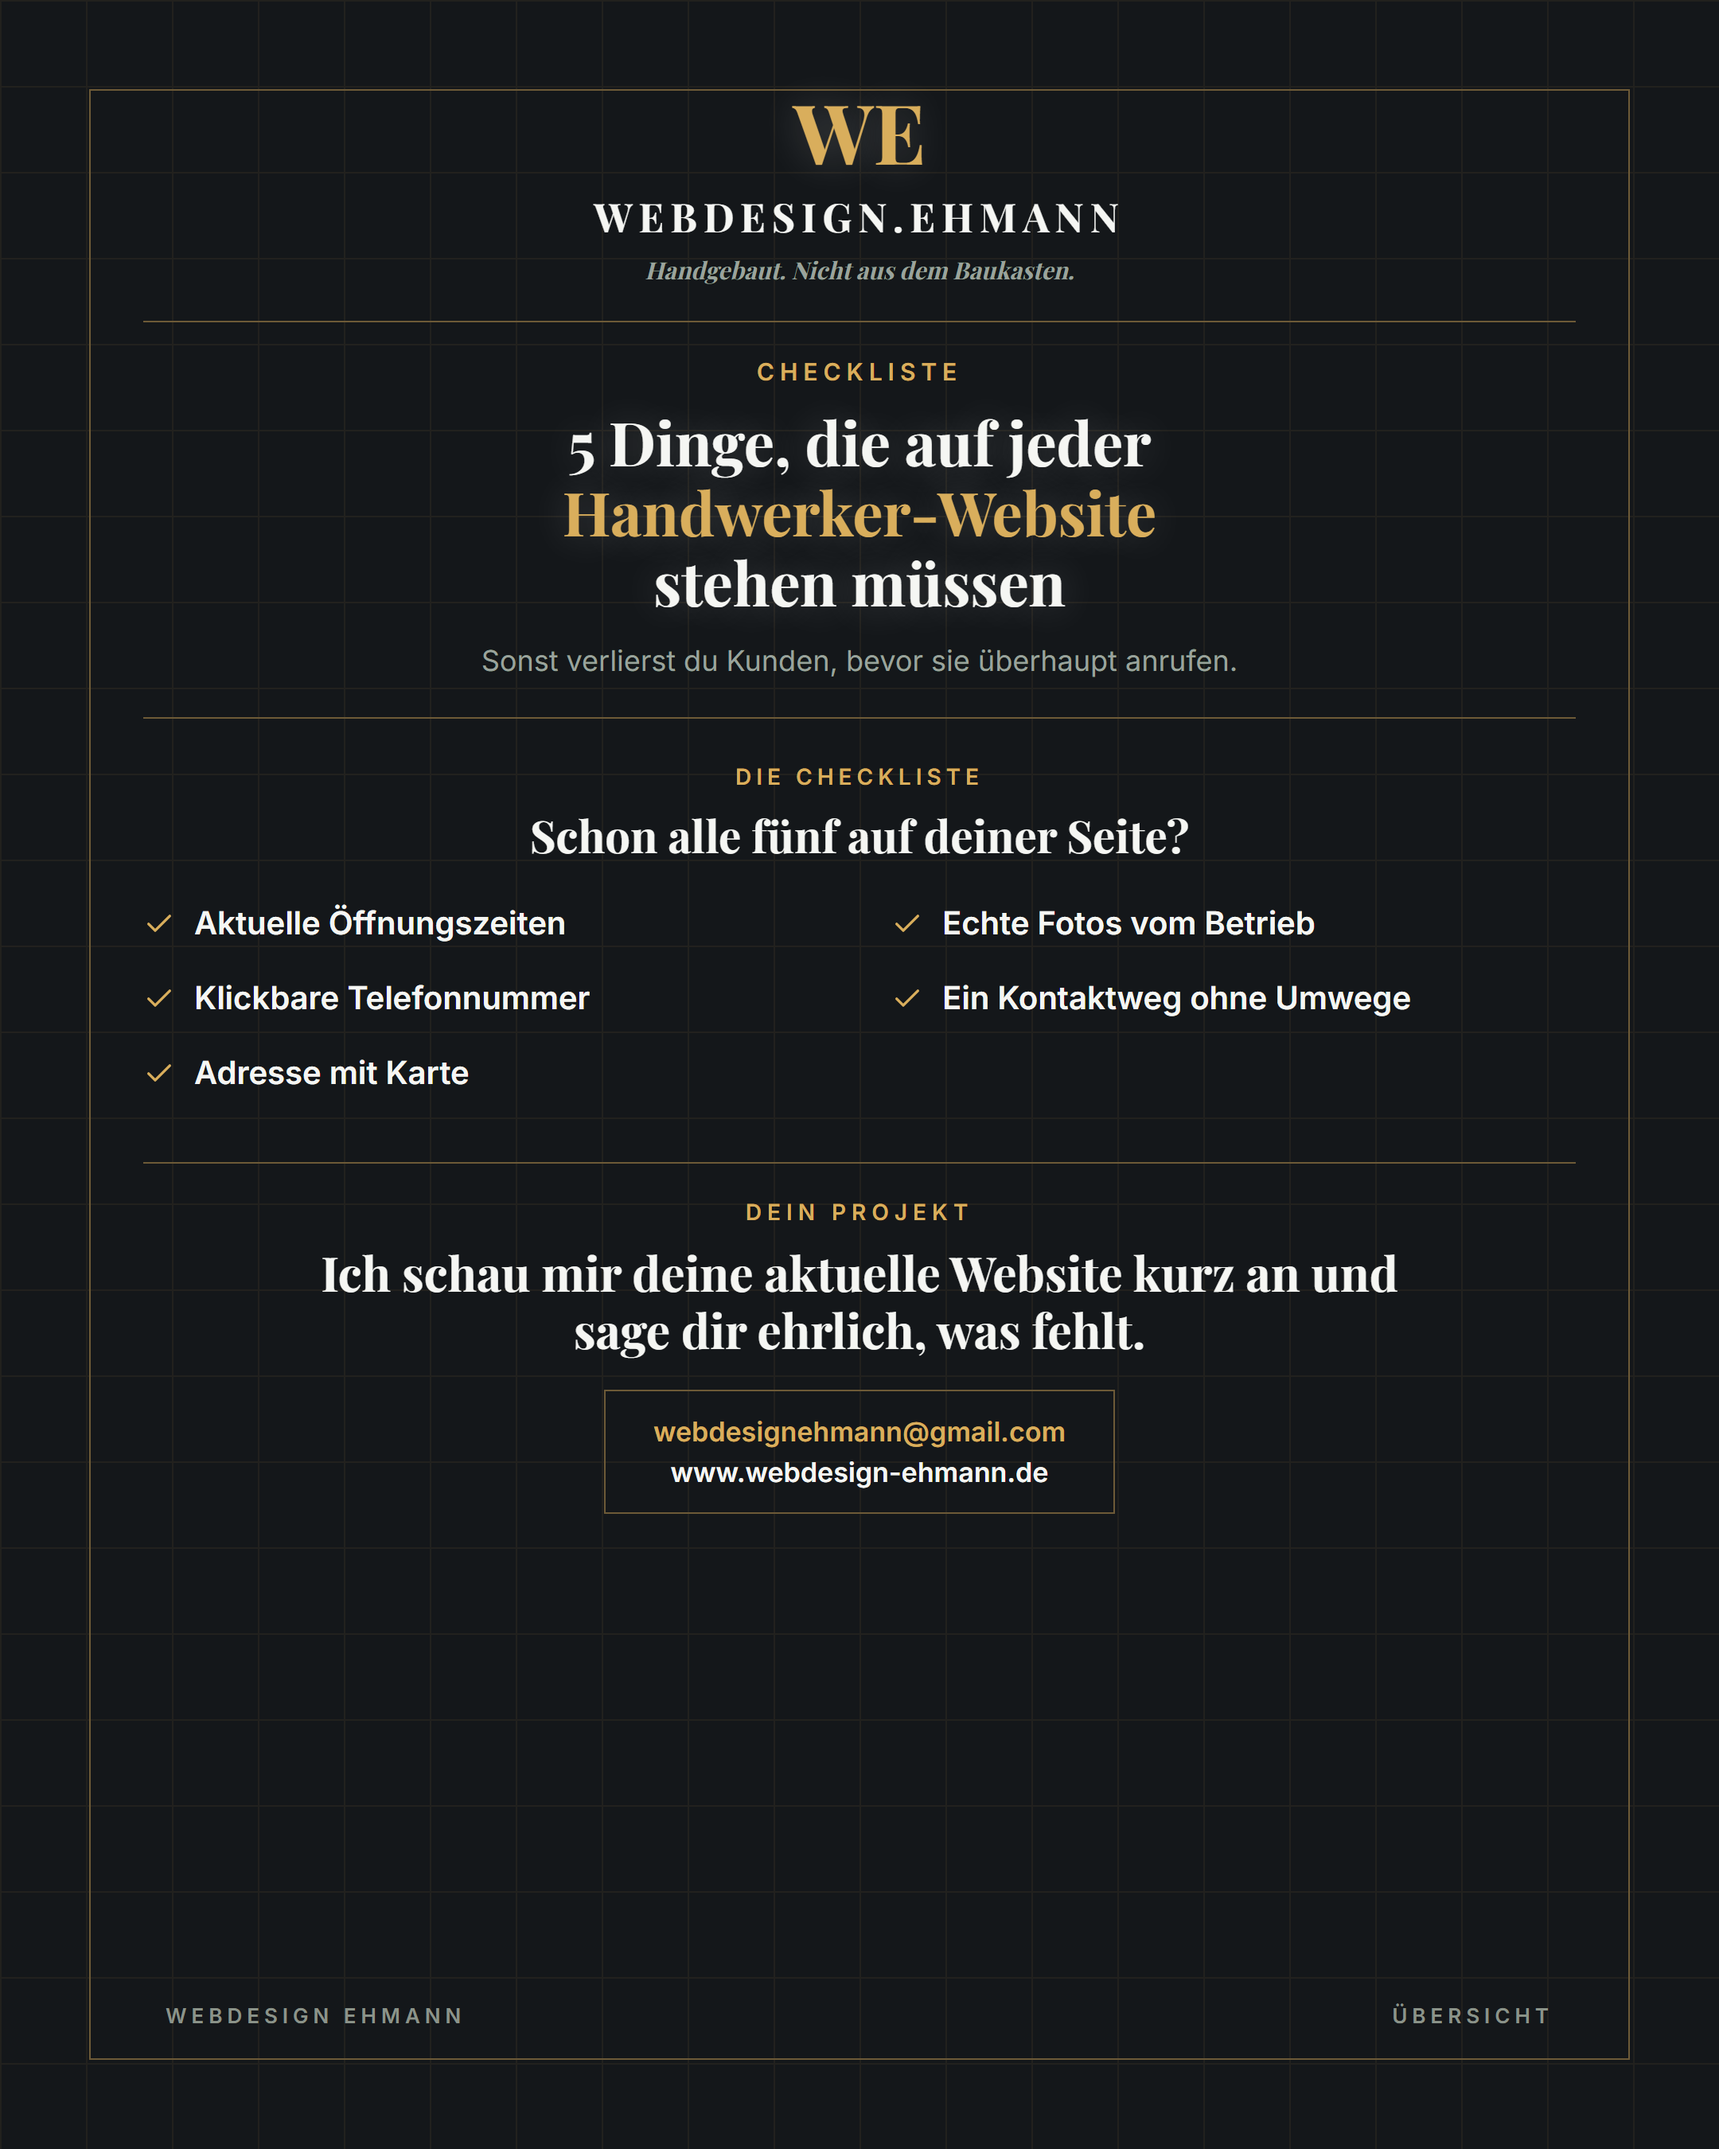
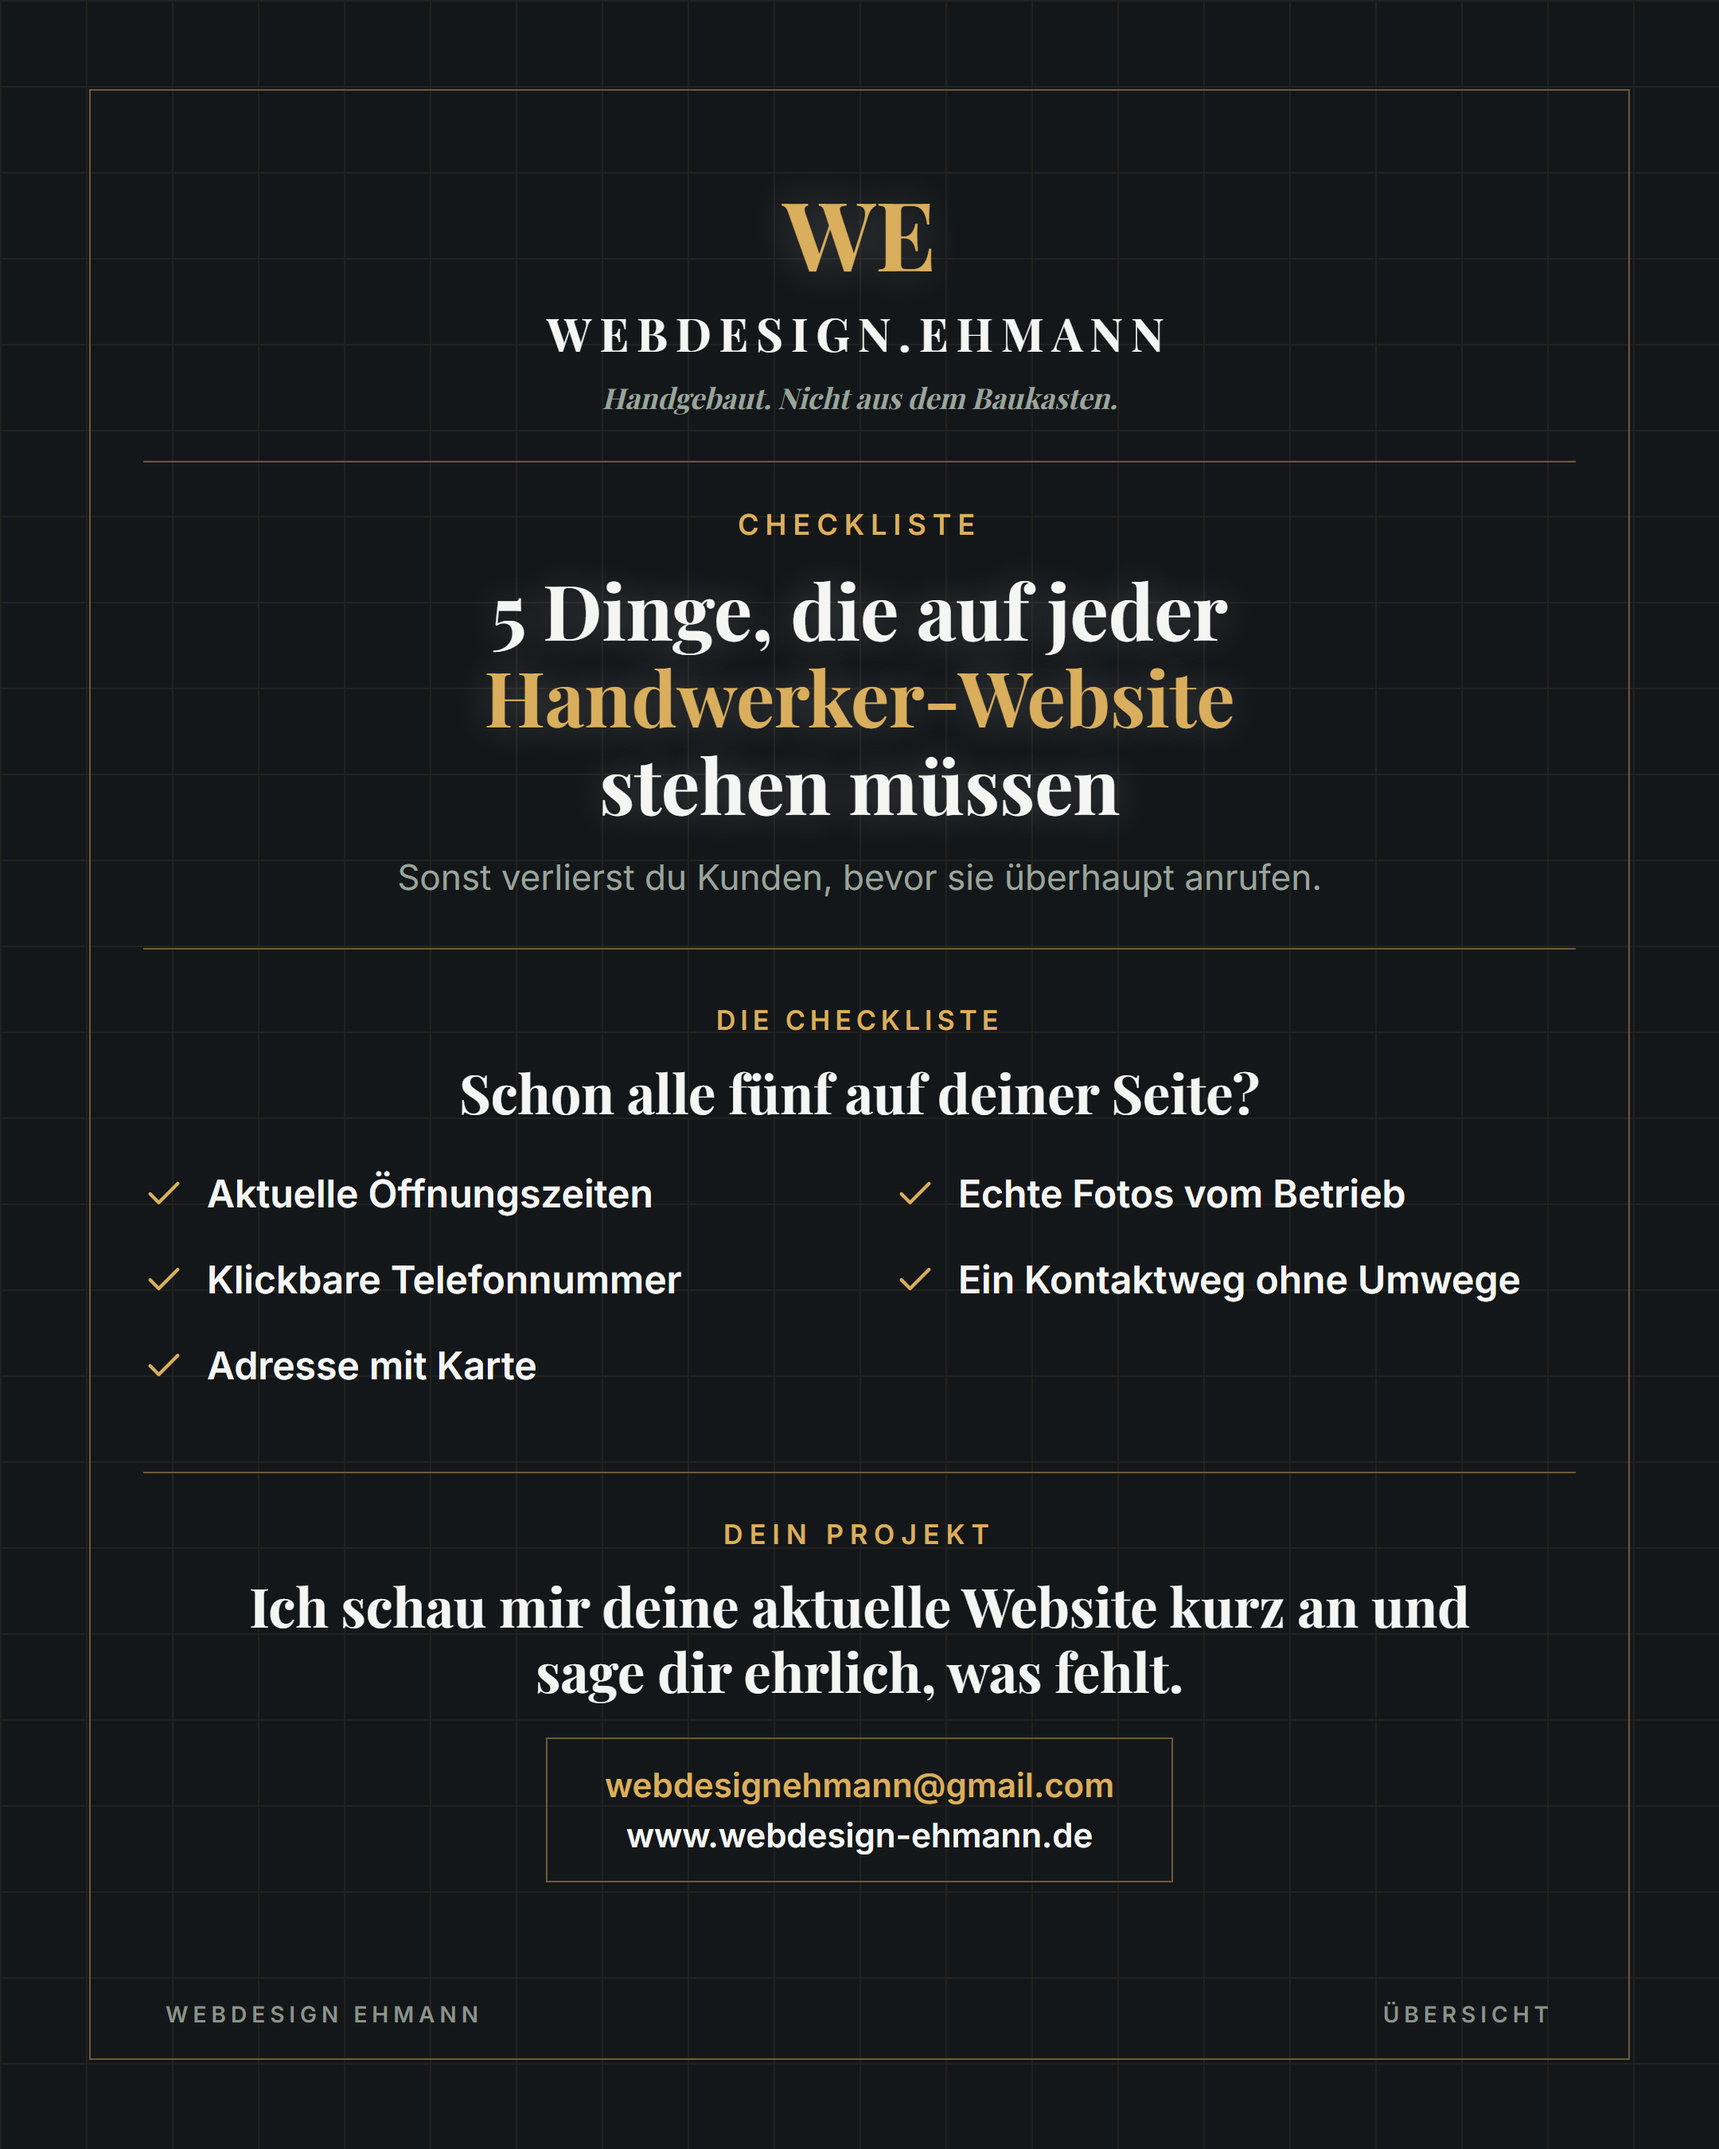
Instagram-Posts: Übersichtsgrafiken größer & ohne Leerraum unten
Text war deutlich zu klein und unten blieb zu viel ungenutzter Platz
vor dem Footer. Schriftgrößen auf allen Ebenen (Logo, Hook, Kernpunkte,
CTA, Kontaktbox) vergrößert und den Inhaltsblock vertikal im
verfügbaren Bereich zentriert statt oben ausgerichtet, damit
Leerraum gleichmäßig verteilt statt nur unten anfällt.

diff --git a/assets/marketing/instagram-posts/_build/overview-generic.js b/assets/marketing/instagram-posts/_build/overview-generic.js
@@ -36,9 +36,9 @@ function lineCount(headline) {
 }
 function hookSize(headline) {
   const n = lineCount(headline);
-  if (n <= 1) return 54;
-  if (n === 2) return 46;
-  return 38;
+  if (n <= 1) return 66;
+  if (n === 2) return 58;
+  return 48;
 }
 
 function pointsColumns(points) {
@@ -48,21 +48,21 @@ function pointsColumns(points) {
 }
 
 function checkIcon() {
-  return `<svg width="20" height="20" viewBox="0 0 24 24" fill="none" stroke="${t.accent}" stroke-width="2" stroke-linecap="round" stroke-linejoin="round"><path d="M4 12.5l5 5L20 6.5"/></svg>`;
+  return `<svg width="26" height="26" viewBox="0 0 24 24" fill="none" stroke="${t.accent}" stroke-width="2" stroke-linecap="round" stroke-linejoin="round"><path d="M4 12.5l5 5L20 6.5"/></svg>`;
 }
 
 function pointsList(points) {
   const [colA, colB] = pointsColumns(points);
   const row = (item) => `
-    <div style="display:flex; align-items:flex-start; gap:12px; margin-bottom:20px;">
-      <div style="flex-shrink:0; margin-top:3px;">${checkIcon()}</div>
-      <div style="font-family:'Inter',sans-serif; font-weight:600; font-size:20px; line-height:1.3; color:${t.headline};">${item}</div>
+    <div style="display:flex; align-items:flex-start; gap:14px; margin-bottom:22px;">
+      <div style="flex-shrink:0; margin-top:2px;">${checkIcon()}</div>
+      <div style="font-family:'Inter',sans-serif; font-weight:600; font-size:24px; line-height:1.3; color:${t.headline};">${item}</div>
     </div>`;
   if (!colB.length) {
-    return `<div style="width:100%; max-width:760px; margin:0 auto;">${colA.map(row).join("")}</div>`;
+    return `<div style="width:100%; max-width:820px; margin:0 auto;">${colA.map(row).join("")}</div>`;
   }
   return `
-  <div style="display:flex; gap:40px; width:100%; max-width:900px; margin:0 auto;">
+  <div style="display:flex; gap:44px; width:100%; max-width:960px; margin:0 auto;">
     <div style="flex:1;">${colA.map(row).join("")}</div>
     <div style="flex:1;">${colB.map(row).join("")}</div>
   </div>`;
@@ -86,24 +86,24 @@ html, body { width:${WIDTH}px; height:${HEIGHT}px; overflow:hidden; background:$
   background-size: 54px 54px;
 }
 .frame { position:absolute; top:56px; left:56px; right:56px; bottom:56px; border:1px solid ${t.border}; }
-.col { position:absolute; left:90px; right:90px; top:56px; display:flex; flex-direction:column; align-items:center; text-align:center; }
-.logo-we { font-family:'Playfair Display',serif; font-weight:700; font-size:52px; color:${t.accent}; text-shadow:0 0 26px ${t.glow}; line-height:1; }
-.logo-name { font-family:'Playfair Display',serif; font-weight:700; font-size:25px; letter-spacing:4px; color:${t.headline}; margin-top:11px; }
-.logo-tag { font-family:'Playfair Display',serif; font-style:italic; font-size:15px; color:${t.subtext}; margin-top:7px; }
-.rule { width:100%; height:1px; background:${t.border}; margin:22px 0; }
-.kicker { font-family:'Inter',sans-serif; font-weight:600; font-size:15px; letter-spacing:3.5px; text-transform:uppercase; color:${t.kicker}; }
-.headline { font-family:'Playfair Display',serif; font-weight:700; line-height:1.16; color:${t.headline}; text-shadow:0 0 26px ${t.glow}; margin-top:13px; }
+.col { position:absolute; left:90px; right:90px; top:60px; bottom:112px; display:flex; flex-direction:column; align-items:center; justify-content:center; text-align:center; overflow:hidden; }
+.logo-we { font-family:'Playfair Display',serif; font-weight:700; font-size:60px; color:${t.accent}; text-shadow:0 0 30px ${t.glow}; line-height:1; }
+.logo-name { font-family:'Playfair Display',serif; font-weight:700; font-size:29px; letter-spacing:5px; color:${t.headline}; margin-top:14px; }
+.logo-tag { font-family:'Playfair Display',serif; font-style:italic; font-size:18px; color:${t.subtext}; margin-top:9px; }
+.rule { width:100%; height:1px; background:${t.border}; margin:28px 0; flex-shrink:0; }
+.kicker { font-family:'Inter',sans-serif; font-weight:600; font-size:18px; letter-spacing:4px; text-transform:uppercase; color:${t.kicker}; }
+.headline { font-family:'Playfair Display',serif; font-weight:700; line-height:1.14; color:${t.headline}; text-shadow:0 0 26px ${t.glow}; margin-top:15px; }
 .headline .accent { color:${t.accent}; }
-.hook-subtext { font-family:'Inter',sans-serif; font-weight:400; font-size:18px; line-height:1.5; color:${t.subtext}; max-width:700px; margin:14px auto 0; }
-.points-kicker { font-family:'Inter',sans-serif; font-weight:600; font-size:14px; letter-spacing:3px; text-transform:uppercase; color:${t.kicker}; margin-top:6px; }
-.points-headline { font-family:'Playfair Display',serif; font-weight:700; font-size:28px; color:${t.headline}; margin-top:9px; margin-bottom:24px; }
-.cta-kicker { font-family:'Inter',sans-serif; font-weight:600; font-size:14px; letter-spacing:3.5px; text-transform:uppercase; color:${t.kicker}; }
-.cta-headline { font-family:'Playfair Display',serif; font-weight:700; font-size:30px; line-height:1.2; color:${t.headline}; margin-top:11px; max-width:740px; }
-.contact-box { border:1px solid ${t.border}; padding:15px 30px; margin-top:20px; }
-.contact-box a, .contact-box span { display:block; font-family:'Inter',sans-serif; font-weight:600; font-size:17px; text-align:center; }
-.contact-email { color:${t.accent}; margin-bottom:5px; text-decoration:none; }
+.hook-subtext { font-family:'Inter',sans-serif; font-weight:400; font-size:22px; line-height:1.45; color:${t.subtext}; max-width:760px; margin:16px auto 0; }
+.points-kicker { font-family:'Inter',sans-serif; font-weight:600; font-size:17px; letter-spacing:3px; text-transform:uppercase; color:${t.kicker}; margin-top:6px; }
+.points-headline { font-family:'Playfair Display',serif; font-weight:700; font-size:34px; color:${t.headline}; margin-top:12px; margin-bottom:26px; }
+.cta-kicker { font-family:'Inter',sans-serif; font-weight:600; font-size:17px; letter-spacing:4px; text-transform:uppercase; color:${t.kicker}; }
+.cta-headline { font-family:'Playfair Display',serif; font-weight:700; font-size:34px; line-height:1.2; color:${t.headline}; margin-top:14px; max-width:800px; }
+.contact-box { border:1px solid ${t.border}; padding:16px 36px; margin-top:22px; flex-shrink:0; }
+.contact-box a, .contact-box span { display:block; font-family:'Inter',sans-serif; font-weight:600; font-size:21px; text-align:center; }
+.contact-email { color:${t.accent}; margin-bottom:6px; text-decoration:none; }
 .contact-web { color:${t.headline}; font-weight:400; }
-.footer { position:absolute; left:104px; right:104px; bottom:76px; display:flex; justify-content:space-between; font-family:'Inter',sans-serif; font-weight:600; font-size:13px; letter-spacing:3px; text-transform:uppercase; color:${t.footer}; }
+.footer { position:absolute; left:104px; right:104px; bottom:76px; display:flex; justify-content:space-between; font-family:'Inter',sans-serif; font-weight:600; font-size:14px; letter-spacing:3px; text-transform:uppercase; color:${t.footer}; }
 </style>
 </head>
 <body>
